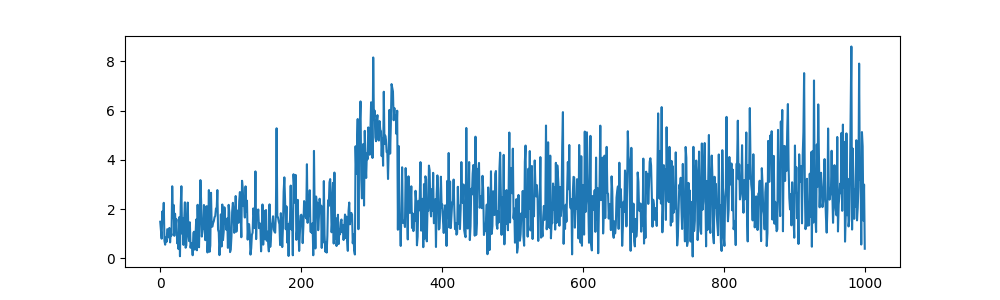
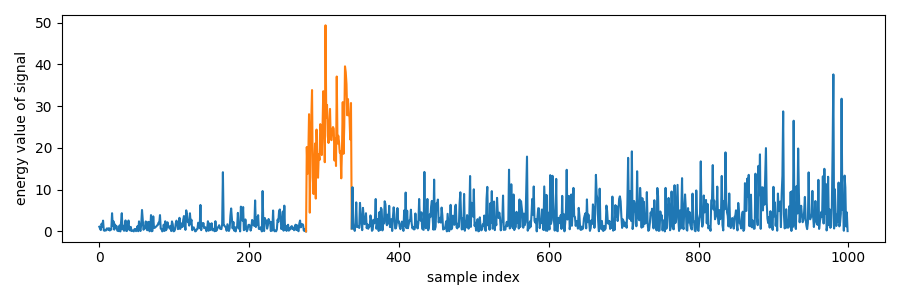
WIP: writing about signal detection

diff --git a/_sass/minimal-mistakes/_variables.scss b/_sass/minimal-mistakes/_variables.scss
@@ -6,7 +6,7 @@
    Typography
    ========================================================================== */
 
-$doc-font-size: 16px !default;
+$doc-font-size: 12px !default;
 $doc-font-size-medium: $doc-font-size * 1.125 !default;
 $doc-font-size-large: $doc-font-size * 1.25 !default;
 $doc-font-size-x-large: $doc-font-size * 1.375 !default;
@@ -32,7 +32,8 @@ $helvetica: Helvetica, "Helvetica Neue", Arial, sans-serif !default;
 
 /* Serif - modern font stack */
 $transitional: Charter, 'Bitstream Charter', 'Sitka Text', Cambria, serif;
-$old-style: 'Iowan Old Style', 'Palatino Linotype', 'URW Palladio L', P052, serif;;
+$old-style: 'Iowan Old Style', 'Palatino Linotype', 'URW Palladio L', P052, serif;
+;
 $monospace-slab-serif: 'Nimbus Mono PS', 'Courier New', monospace;
 $slab-serif: Rockwell, 'Rockwell Nova', 'Roboto Slab', 'DejaVu Serif', 'Sitka Small', serif;
 $antique: Superclarendon, 'Bookman Old Style', 'URW Bookman', 'URW Bookman L', 'Georgia Pro', Georgia, serif;

diff --git a/images/posts/signal-detection/demo_signal_detection.py b/images/posts/signal-detection/demo_signal_detection.py
@@ -1,0 +1,183 @@
+import numpy as np
+np.random.seed(42)
+import matplotlib.pyplot as plt
+from scipy.ndimage import median_filter, uniform_filter1d
+from scipy.ndimage import binary_closing, binary_opening
+
+N = 1000
+m = 60
+
+snrdb = 13
+snr = 10**(snrdb/10)
+
+s = np.sqrt(snr) * np.exp(2j*np.pi*np.random.rand(m))
+x = np.random.randn(N) + 1j*np.random.randn(N) 
+print(np.std(x))
+x = x / np.std(x)
+noisemultiplier = np.linspace(1,2.5,N)
+x = x * noisemultiplier
+offset = 277
+x[offset:(offset + m)] += s
+t = np.arange(N)
+absx = np.square(np.abs(x))
+
+fig = plt.figure(figsize=(9,3))
+plt.plot(t[:offset], absx[:offset], color="C0")
+plt.plot(t[offset-1:offset+m+1], absx[offset-1:offset+m+1], color="C1")
+plt.plot(t[offset+m:], absx[offset+m:], color="C0")
+plt.xlabel("sample index")
+plt.ylabel("energy value of signal")
+plt.tight_layout()
+plt.savefig("baseproblem.png")
+plt.show()
+
+# Method 1: Energy Thresholding
+fig = plt.figure(figsize=(9,3))
+plt.plot(absx)
+plt.axhline(16, color="r")
+plt.title("Constant Energy Thresholding")
+plt.xlabel("sample index")
+plt.ylabel("energy value of signal")
+plt.tight_layout()
+
+for i, isi in enumerate(absx>16):
+    if isi:
+        plt.axvspan(i, i+1, color="C3", alpha=0.3)
+plt.savefig("sol1.png")
+plt.show()
+
+def hysteresis_thresholding(xx, threshold1, threshold2):
+    y = np.zeros_like(xx, dtype=bool)
+    out = []
+    prev_start: int = None
+    for i, x in enumerate(xx):
+        if prev_start is not None:
+            if x < threshold1:
+                out.append((prev_start, i-1))
+                prev_start = None
+        else:
+            if x > threshold2:
+                prev_start = i
+
+        if prev_start is not None:
+            y[i] = True
+    return y, out
+
+absx_mask, detected_segments = hysteresis_thresholding(absx, 4,16)
+
+fig = plt.figure(figsize=(9,3))
+plt.plot(absx)
+plt.axhline(16, color="r")
+plt.axhline(4, color="r")
+plt.title("Hysteresis Thresholding")
+plt.xlabel("sample index")
+plt.ylabel("energy of signal")
+for i1,i2 in detected_segments:
+    plt.axvspan(i1, i2, color="C3", alpha=0.3)
+plt.tight_layout()
+plt.savefig("sol1_hysteresis.png")
+plt.show()
+
+
+absx_mask = binary_closing(absx_mask, np.ones(5))
+absx_mask = binary_opening(absx_mask, np.ones(5))
+
+fig = plt.figure(figsize=(9,3))
+plt.plot(absx)
+plt.title("Mophological Ops to clean up detections")
+plt.xlabel("sample index")
+plt.ylabel("energy value of signal")
+plt.axhline(16, color="r")
+absx_mask, detected_segments = hysteresis_thresholding(absx_mask, 0.5,0.5)
+for i1,i2 in detected_segments:
+    plt.axvspan(i1, i2, color="C3", alpha=0.3)
+plt.tight_layout()
+plt.savefig("sol1_morphological.png")
+plt.show()
+
+# Method 2: CFAR
+noisefloor = median_filter(absx, size=4*m)/np.log(2)
+
+fig = plt.figure(figsize=(10,3))
+plt.plot(absx)
+plt.plot(noisefloor, label="noisefloor", color='k')
+# plt.plot(2* noisefloor, color="r", ls="--", label="threshold")
+plt.legend()
+plt.xlabel("sample index")
+plt.ylabel("energy value of signal")
+plt.savefig("sol2_nf.png")
+# plt.title("CFAR")
+plt.show()
+
+cfar_multiplier = 5
+cfar_threshold = cfar_multiplier * noisefloor
+absx_nf_mask = absx > cfar_threshold
+absx_nf_mask = binary_closing(absx_nf_mask, np.ones(5))
+absx_nf_mask = binary_opening(absx_nf_mask, np.ones(5))
+absx_nf_mask, detected_nf_segments = hysteresis_thresholding(absx_nf_mask, 0.5,0.5)
+
+fig = plt.figure(figsize=(9,3))
+plt.plot(absx)
+plt.plot(noisefloor, label="noisefloor", color='k')
+plt.plot(cfar_threshold, color="r", ls="--", label="threshold")
+for i1,i2 in detected_nf_segments:
+    plt.axvspan(i1, i2, color="C3", alpha=0.3)
+plt.legend()
+plt.title("CFAR")
+plt.xlabel("sample index")
+plt.ylabel("energy value of signal")
+plt.savefig("sol2_cfar.png")
+plt.show()
+
+# Method 3: Matched filter CFAR
+
+def matchfilter(x,s):
+    nout = len(x) - len(s) + 1
+    out = np.zeros(len(x), dtype=np.complex128)
+    tmplt = s.conj() / np.linalg.norm(s)
+    for i in range(nout):
+        seg = x[i:i+len(s)]
+        # seg = seg / np.linalg.norm(seg)
+        out[i+m-1] = np.sum(seg * tmplt)
+
+    return out
+
+x_mf = matchfilter(x,s)
+
+noisefloor_mf = median_filter(np.square(np.abs(x_mf)), size=4*m) / np.log(2)
+
+fig = plt.figure(figsize=(9,3))
+plt.plot(np.square(np.abs(x_mf)))
+plt.plot(noisefloor_mf, label="noisefloor", color='k')
+plt.plot(3* noisefloor_mf, color="r", ls="--", label="threshold")
+plt.legend()
+plt.tight_layout()
+plt.title("matched filter + CFAR")
+plt.savefig("sol3.png")
+plt.show()
+
+
+
+# Method 4: Cosine Similarity
+
+def matchfilter_cs(x,s):
+    nout = len(x) - len(s) + 1
+    out = np.zeros(len(x), dtype=np.complex128)
+    tmplt = s.conj() / np.linalg.norm(s)
+    for i in range(nout):
+        seg = x[i:i+len(s)]
+        seg = seg / np.linalg.norm(seg)
+        out[i+m-1] = np.sum(seg * tmplt)
+
+    return out
+
+qf = matchfilter_cs(x,s)
+
+
+fig = plt.figure(figsize=(10,3))
+plt.plot(np.abs(qf))
+plt.axhline(0.6, color="r")
+plt.title("cosine similarity")
+plt.savefig("sol4.png")
+
+plt.show()

diff --git a/_posts/2025-06-07-signal-detection.md b/_posts/2025-06-07-signal-detection.md
@@ -1,62 +1,107 @@
 ---
 layout: post
-title: Intro to Signal Detection
+title: Introduction to signal detection
 layout: single
 permalink: null
-published: false
+published: true
 date: 2025-06-07
 #category: stories
 #tags: me
 ---
+As someone working in a signal processing group, I have seen a fascinating diversity of signal detection methods used even within a small team. Signal detection is a ubiquitous, beginner-friendly problem, so it is no wonder a variety of algorithms exists for the multitudes of applications out there. While some algorithms employ heuristics, some others stand on theoretical grounding. 
 
+Since I was recently tasked with teaching new engineers basic signal processing, I will practice my teaching with this topic of signal detection. Hopefully I can clearly and succinctly convey the key ideas. 🤞
 
-Imagine that you have a burst of signal embedded in noise that varies in power. How will you detect this burst?
+# Problem: Signal Detection
+Lets start with the problem: Imagine that you have a burst of a complex-valued signal embedded in complex-valued gaussian noise that **varies** in power. How will you detect this burst?
 
 ![Signal in increasing noisefloor](/images/posts/signal-detection/baseproblem.png)
 
-<details>
-
-<summary>Code to generate burst within noise</summary>
-
-{% highlight python %}
-
-import numpy as np
-np.random.seed(42)
-import matplotlib.pyplot as plt
-
-N = 1000  # total samples
-m = 60  # burst size
-snr = 10
-
-# generate signal 
-s = np.sqrt(snr) * np.exp(2j*np.pi*np.random.rand(m))
-
-# generate noise
-x = np.random.randn(N) + 1j*np.random.randn(N) 
-x = x / np.std(x)
-noisemultiplier = np.linspace(1,2.5,N)
-x = x * noisemultiplier
-
-# embed signal in noise
-offset = 277
-x[offset:(offset + m)] += s
-
-# plot
-fig = plt.figure()
-plt.plot(np.abs(x))
-plt.show()
-
-{% endhighlight %}
-
-</details>
-
 # Method 1: Static Threshold
+Well, a fast and simple idea is to draw a static threshold. 
 
+![Constant Energy Thresholding](/images/posts/signal-detection/sol1.png)
+
+If the sample energy rises above threshold, we can count the sample as detected. But notice that some samples of the signal may still fall below the threshold. 
+
+### Hysteresis Detection
+To detect a contiguous segment, we can perform a hystersis detection. In other words, there are two static thresholds. The sample need to rise **above** the upper threshold to detect the **start the burst** and the sample need to fall **below** the lower threshold to detect the **end of the burst**. Hysteresis thresholding is sometimes called "edge detection".
+
+![Hysteresis thresholding](/images/posts/signal-detection/sol1_hysteresis.png)
+
+As can be seen in the figure above, the entire signal burst is detected as one segment. Due to the increasing noise floor, we also got some false alarms in the later part of the time series.
+
+Hysteresis a viable method to detect radar signals as radar bursts often have constant power. But burst communications RF bursts may legitimately have instantaneous samples which dips to zero. This makes setting the lower threshold impossible. So instead, morphological operations can be used to directly clean up the breaks between the detections.
+
+### Morphological Post-processing
+
+
+Morphological operations work on binary arrays. For our application, we performed [binary closing](https://en.wikipedia.org/wiki/Closing_(morphology)) first to close up any breaks smaller than 5 samples long in the detected signal. Afterwards, we performed [binary opening](https://en.wikipedia.org/wiki/Opening_(morphology)) to remove any detected segments shorter than 5 samples long. 5 samples is just an heuristic choice of parameter. We can use other parameters for other applications.
+
+![Morphological operation](/images/posts/signal-detection/sol1_morphological.png)
+
+As can be seen in the figure above, there are fewer false alarms. We could have removed that false alarm had we performed binary opening with structure size greater than 5. 
 
 # Method 2: Dynamic Threshold (CFAR)
 
+As seen previously, static thresholding doesnt adapt to changing noise floor. Even if we have an environment where the noise floor is stationary, different receivers may have different gains can the scale of the received signal can vary widely, making it annoying to manually set static threshold. Can we set the threshold more dynamically?
+
+Indeed we can set the threshold dynamically as a fixed multiplier of the noise floor level. In the example below, we have a moving estimate of the noise floor and threshold the signal against 5x of the noisefloor
+
+![CFAR detection](/images/posts/signal-detection/sol2_cfar.png)
+
+### Estimating noise floor
+But how will we estimate the noise floor when signal is present?
+
+In short, we can't. We have to use the parts of the time series without signal to estimate the noise floor. One way to create a moving estimate of the noise floor is to correlate a window as such the one below. 
+
+![CFAR detection](/images/posts/signal-detection/CFAR_structure.png)
+
+The middle sample is position whose noisefloor we are estimating. The "guard samples" are the samples we are ignoring as it may be the signal burst itself. The number of guard samples on each side should be at least as long as the burst length. The "reference samples" are the samples we use to esimate the noise floor. The more reference samples we use, the more precise our noise floor estimate, but inherently also assumes that if there are multiple bursts, they are spaced further apart.
+
+<details>
+<summary>Lazy alternative</summary>
+
+Now, I am often lazy and it is a bit tedious to construct such a window in python to correlate. So I often simply use scipy's <a href="https://docs.scipy.org/doc/scipy/reference/generated/scipy.ndimage.median_filter.html">median_filter</a> to estimate the noisefloor and ensure that my window is at least 3x the size of the burst. I may sometimes divide the median filter's output by $log(2)$ to convert the median into a mean.
+</details>
+### Proving Constant False Alarm Rate
+Now for some math to explain why this is sometimes called "constant false alarm rate" (CFAR).
+
+In a complex random gaussian signal $z = x + iy$:
+* $x \sim \mathcal{N}(0,\sigma^2)$
+* $y \sim \mathcal{N}(0,\sigma^2)$
+
+The energy of $z$ is $|z|^2 = x^2 + y^2$ where:
+* $ \|z\| ^2  \sim Exponential(\lambda=\frac{1}{2\sigma^2}) $
+* mean of $ \|z\| ^2 = 2\sigma^2$
+* standard deviation of $ \|z\| ^2 = 2\sigma^2$
+
+We sometimes also say that $ \|z\| ^2$ is chi-squared distributed with degree 2. This is also correct as a chi-squared distribution with $k=2$ is a scaled exponential distribution.
+
+Now, assuming that we had set the threshold to be $m$ times the noise floor (mean of the noise distribution = $\frac{1}{\lambda}$ ).
+* probability of false alarm = $exp(-\lambda (m\frac{1}{\lambda})) = exp(-m)$
+
+Notice that the probability of false alarm is independent of the noise power $\sigma$. Thus the namesake. You may notice that in the figure above there are 6 false alarm samples which crosses the threshold. This fits theory because expected $exp(-5) * 1000 \approx 7$ false alarm samples. Elegant right? 😊
 
 # Method 3: Matched Filter + CFAR
+Can we even better in our detection?
 
+Well, if we know the signal that we are searching for then yes! Radars often know the exact burst that they transmitted. Communications bursts often have a known preamble at the start. By explicitly hunting for this known sequence through cross correlation, we can do better than relying on energy detection.
+
+$$
+y[t] = \sum_i s^*[i]z[t+i]
+$$
+
+The process of cross-correlating a known signal is often called "matched filtering" or "pulse compression" in radar. I find "Pulse Compression" an especially cute analogy which may not be too wrong in intuitively describing the operation. The summation operation can be thought of as "compressing" the burst into a single sample $y[t]$.
+
+The element-wise multiplication of conjugate of the signal $s^*[i]$ serves to align the phase of every sample in the signal so that the summation is phase coherent. Because our signal was "compressed" in a phase coherent manner and the noise was "compressed" incoherently, the signal to noise ratio improves after matched filtering. If our signal is long, matched filtering allows the detection of very weak signal due to a significant integration gain.
+
+![CFAR detection](/images/posts/signal-detection/sol3.png)
+
+While previously we had to detect the "start of burst" and "end of burst", now we only have to detect a peak as the entire signal burst has been "compressed" into a single sample $y[t]$.
+
+Matched Filtering doesnt address the issue of varying noise floor. If the noise floor is higher, the matched filtering output is also higher. So an adaptive threshold like CFAR is needed after matched filtering.
+
+Notice also that around the peak there is a "skirting". This increasing skirting is due to our correlation window entering and exiting the signal region. So even though we have "compressed" the burst into a single peak, we still need the CFAR guard samples on each side to be as long as the burst length itself.
 
 # Method 4: Cosine Similarity

diff --git a/_posts/2025-06-08-cosine-similarity-and-SNR.md b/_posts/2025-06-08-cosine-similarity-and-SNR.md
@@ -8,10 +8,11 @@ date: 2025-06-08
 #category: stories
 #tags: me
 ---
-Recently my team had the task of measuring the Signal-to-Noise Ratio (SNR) of a signal. Since I had to derive it to teach the team, I thought it fit to post the derivation too for my own future reference. 
+Recently my team had the task of measuring the Signal-to-Noise Ratio (SNR) of a signal. Posting the derivation here for my own future reference. 
 
-In summary, we can measure the SNR of a signal through a cross-correlation of a known template within the signal. But it is not the standard cross-correlation. It is "normalized" version of the cross correlation which I dont see a standard name for in literature. [Eduardo](https://edfuentetaja.github.io/sdr/signal_detection) calls it the *"detection score"*. But I call it the *cosine similarity* $q$. (If someone knows the actual name do let me know.) But whatever its name, it is a widely used metric in communications signal processing. 
+We can measure the SNR of a signal through a cross-correlation of a known template within the signal. But it is not the standard cross-correlation. It is "normalized" version of the cross correlation which I dont see a standard name for in literature. [Eduardo](https://edfuentetaja.github.io/sdr/signal_detection) calls it the *"detection score"*. But I call it the *cosine similarity* $q$. (If someone knows the actual name do let me know.) But whatever its name, it is a widely used metric in communications signal processing. 
 
+In summary:
 
 | Situation | $q$ --> SNR | SNR --> $q$ |
 | :----------:| :-------------:| :----------:|
@@ -66,7 +67,7 @@ $\Vert \cdot \Vert$ is the L2 norm of the vector.
 
 $ \mid \cdot \mid$ is the absolute value of a complex number.
 
-Both the absolute value and L2 norm operation involves a square root and that is analytically annoying. So we will analyse instead the cosine similarity squared $q^2$.
+Both the absolute value and L2 norm operation involves a square root and that is analytically annoying. So we will analyse instead the squared cosine similarity $q^2$.
 
 $$
 q^2 = \frac{\Vert \langle X_1,X_2 \rangle \Vert^2}{\Vert X_1 \Vert^2 \Vert X_2 \Vert^2}
@@ -176,6 +177,7 @@ The simulation result matches theory from the high SNR to low SNR regime. Simula
 Often, we know the signal template and cross-correlating clean template through a noisy signal recording. The height of the cosine similarity peak can actually help us estimate the SNR of the noisy signal.
 
 Setting $\beta_1$ = 0 because the template is noiseless,
+
 $$
 \begin{align*}
 q^2 &= \frac{\alpha\alpha}{\alpha(\alpha + \beta_2)}\\
